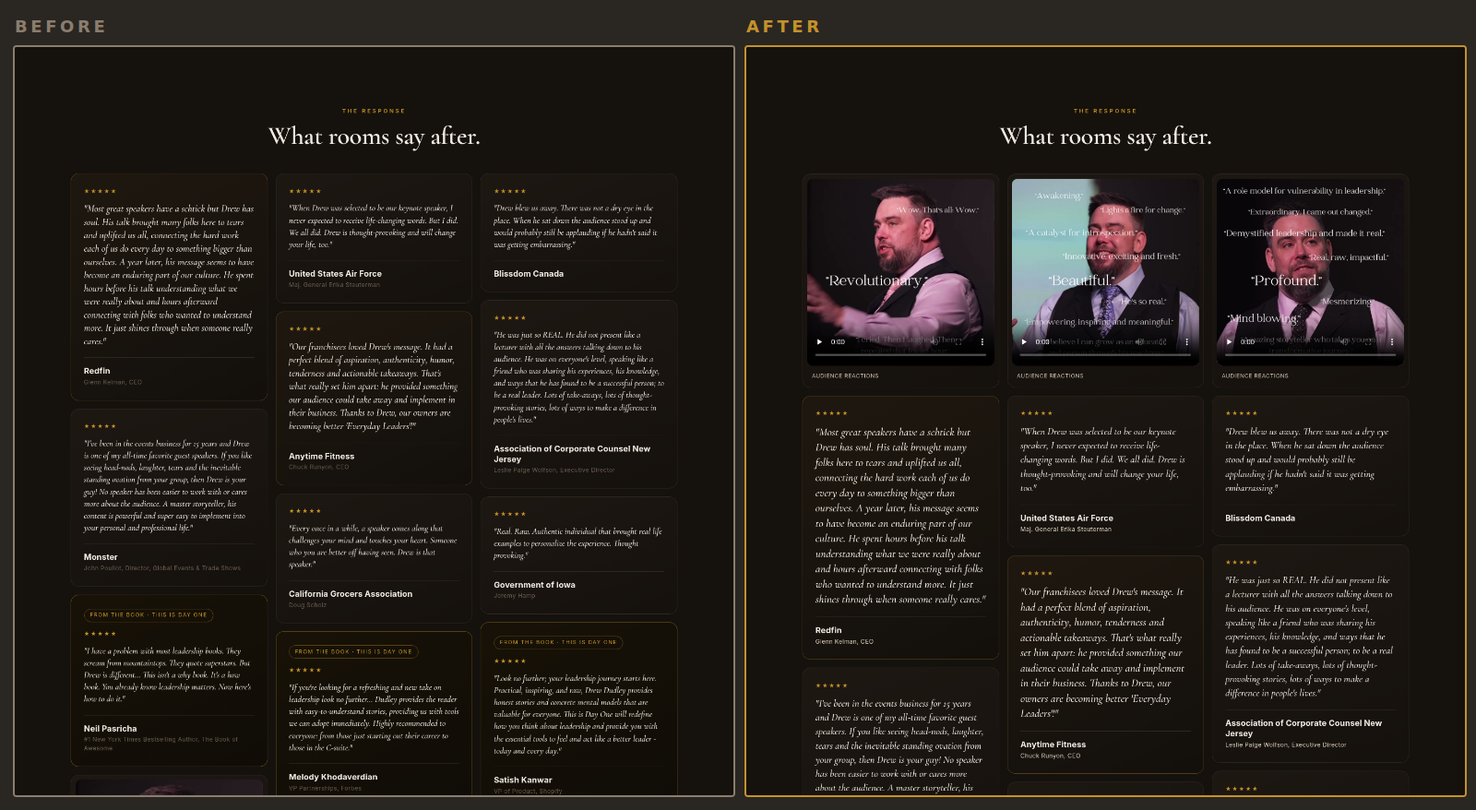
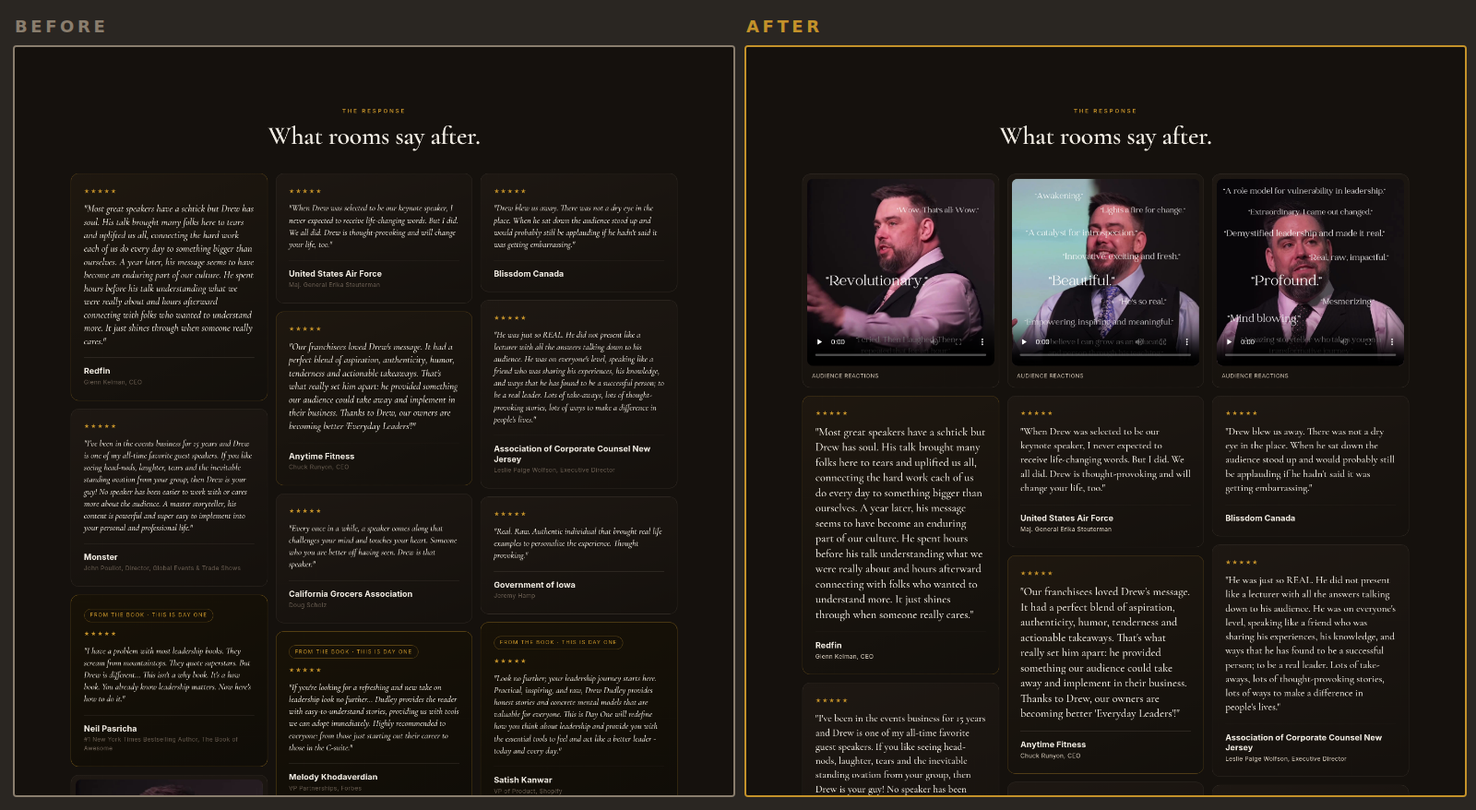
Set reviews upright; quote Drew's instructions on the before/after page
Reviews keep their larger size but drop the italics for readability.
The before/after page now shows Drew's original wording above each change,
followed by what was done and the screenshot.

Claude-Session: https://claude.ai/code/session_017RU65PiZpZooABtTuyqSdP

diff --git a/before-after/index.html b/before-after/index.html
@@ -56,7 +56,21 @@
   .pricing td:first-child{width:auto;}
   .pricing td{white-space:nowrap;}
 
-  figure{margin:2.2rem 0 0;}
+  .item{margin-top:3rem;padding-top:2.4rem;border-top:1px dashed var(--line);}
+  .item:first-of-type{border-top:none;padding-top:0;}
+  .ask{background:var(--ink2);border:1px solid var(--line);border-left:3px solid var(--gold);border-radius:6px;padding:1.1rem 1.3rem;}
+  .ask .who{display:block;font-size:.68rem;font-weight:600;letter-spacing:.2em;text-transform:uppercase;color:var(--gold);margin-bottom:.6rem;}
+  .ask p,.ask li{font-size:1.02rem;line-height:1.6;color:var(--text);}
+  .ask p + p{margin-top:.6rem;}
+  .ask ul{list-style:none;display:flex;flex-direction:column;gap:.55rem;}
+  .ask li{position:relative;padding-left:1.1rem;}
+  .ask li::before{content:"\2013";position:absolute;left:0;color:var(--gold);}
+  .ask .quoted{margin-top:.6rem;padding-left:1rem;border-left:1px solid var(--line);color:var(--muted);}
+  .did{margin-top:1rem;font-size:1rem;color:var(--muted);max-width:52rem;}
+  .did b{color:var(--text);}
+  .did .tag{display:inline-block;font-size:.66rem;font-weight:700;letter-spacing:.16em;text-transform:uppercase;color:#7fbf8f;margin-right:.5rem;}
+  .did .tag.wait{color:#e0a85a;}
+  figure{margin:1.4rem 0 0;}
   figure figcaption{font-size:.95rem;font-weight:600;color:var(--text);margin-bottom:.8rem;}
   figure figcaption span{font-weight:400;color:var(--muted);}
   figure a{display:block;border-radius:6px;overflow:hidden;border:1px solid var(--line);background:#2a2622;}
@@ -91,6 +105,7 @@
       <span><i style="border-color:#8a7e6e"></i> Before (grey frame)</span>
       <span><i style="border-color:#c4922a"></i> After (gold frame)</span>
       <span>Click any image to open it full size.</span>
+      <span>Drew's original words are quoted above each change.</span>
     </div>
     <nav class="toc">
       <a href="#fonts">Font &amp; colour</a>
@@ -103,36 +118,37 @@
   </div>
 </div>
 
-<!-- FONTS -->
+<!-- FONT &AMP; COLOUR TWEAKS -->
 <section class="part" id="fonts">
   <div class="wrap">
     <p class="label">Font &amp; colour tweaks</p>
     <h2>Easier to read, same dark design.</h2>
-    <p>All six readability requests are in. White and gold are unchanged.</p>
-    <div class="tbl"><table>
-      <thead><tr><th>Request</th><th>What changed</th></tr></thead>
-      <tbody>
-        <tr><td>Lighten the bronze</td><td>The bronze text ("Across 1,000+ keynotes", "As seen in", "rank Drew in the top 5") is now a lighter sand colour.</td></tr>
-        <tr><td>Lighten reviewer names</td><td>The names and titles under each review are now a light cream.</td></tr>
-        <tr><td>Enlarge 10M+ and "As seen in"</td><td>Both lines are about 30% larger.</td></tr>
-        <tr><td>Bold the scroll</td><td>The scrolling banner keeps its italics and is now bold.</td></tr>
-        <tr><td>Larger reviews</td><td>Review text is about 15% larger, still in italics.</td></tr>
-        <tr><td>"From the Book" label</td><td>Larger, bold and a lighter gold.</td></tr>
-      </tbody>
-    </table></div>
+    <p>Drew's words are shown first, then what changed. White and gold text are unchanged.</p>
 
-    <figure>
-      <figcaption>Hero <span>· lighter bronze, larger 10M+ and "As seen in" lines, TED added, new buttons</span></figcaption>
-      <a href="images/cmp-hero.png" target="_blank" rel="noopener"><img src="images/cmp-hero.png" alt="Hero, before and after" loading="lazy" /></a>
-    </figure>
-    <figure>
-      <figcaption>Scrolling banner <span>· now bold italic</span></figcaption>
-      <a href="images/cmp-marquee.png" target="_blank" rel="noopener"><img src="images/cmp-marquee.png" alt="Scrolling banner, before and after" loading="lazy" /></a>
-    </figure>
-    <figure>
-      <figcaption>Reviews <span>· larger text, lighter names, bolder "From the Book" label, videos as the top row</span></figcaption>
-      <a href="images/cmp-reviews.png" target="_blank" rel="noopener"><img src="images/cmp-reviews.png" alt="Reviews, before and after" loading="lazy" /></a>
-    </figure>
+    <div class="item">
+      <div class="ask"><span class="who">Drew's note</span><ul><li>&ldquo;Could the bronze be lightened please?&rdquo;</li><li>&ldquo;Could the following also be enlarged afterwards: 10M+ and &ldquo;As seen in&rdquo; lines&rdquo;</li></ul></div>
+      <p class="did"><span class="tag">Done</span>The bronze text (&ldquo;Across 1,000+ keynotes&rdquo;, &ldquo;As seen in&rdquo;, &ldquo;rank Drew in the top 5&rdquo;) is now a lighter sand colour. The 10M+ and &ldquo;As seen in&rdquo; lines are about 30% larger.</p>
+      <figure>
+        <figcaption>Hero <span>&middot; top of the homepage</span></figcaption>
+        <a href="images/cmp-hero.png" target="_blank" rel="noopener"><img src="images/cmp-hero.png" alt="Hero, before and after" loading="lazy" /></a>
+      </figure>
+    </div>
+    <div class="item">
+      <div class="ask"><span class="who">Drew's note</span><ul><li>&ldquo;I love the italics on the scroll, but would they be easier to read if they were in bold?&rdquo;</li></ul></div>
+      <p class="did"><span class="tag">Done</span>The scrolling banner keeps its italics and is now <b>bold</b>.</p>
+      <figure>
+        <figcaption>Scrolling banner</figcaption>
+        <a href="images/cmp-marquee.png" target="_blank" rel="noopener"><img src="images/cmp-marquee.png" alt="Scrolling banner, before and after" loading="lazy" /></a>
+      </figure>
+    </div>
+    <div class="item">
+      <div class="ask"><span class="who">Drew's note</span><ul><li>&ldquo;Could the names of reviewers be lightened please?&rdquo;</li><li>&ldquo;Could all the reviews be made a little larger? I like them italicized but want to improve readability.&rdquo;</li><li>&ldquo;&ldquo;From the Book&rdquo; needs to be enlarged, bolded, lightened (or some combo) to ensure readability&rdquo;</li></ul></div>
+      <p class="did"><span class="tag">Done</span>Reviewer names and titles are now a light cream. Review text is about 15% larger and <b>no longer italic</b>, for readability. The &ldquo;From the Book&rdquo; label is larger, bold and a lighter gold.</p>
+      <figure>
+        <figcaption>Reviews <span>&middot; the video row is covered under Graphics &amp; design</span></figcaption>
+        <a href="images/cmp-reviews.png" target="_blank" rel="noopener"><img src="images/cmp-reviews.png" alt="Reviews, before and after" loading="lazy" /></a>
+      </figure>
+    </div>
   </div>
 </section>
 
@@ -141,124 +157,155 @@
   <div class="wrap">
     <p class="label">Content</p>
     <h2>New copy, word for word.</h2>
-    <div class="tbl"><table>
-      <thead><tr><th>Request</th><th>Now reads</th></tr></thead>
-      <tbody>
-        <tr><td>Cut Roadmap to Impact</td><td>Replaced with Drew's new text and a <b>Set up a consultation</b> button that opens the booking wizard. The old section is saved and ready to put back.</td></tr>
-        <tr><td>TED, below the booking button</td><td>"Top 15 most inspiring <b>TED</b> talks of all time"</td></tr>
-        <tr><td>95% stat</td><td>95% "of clients rank Drew 'one of the 5 best speakers we've ever booked'"</td></tr>
-        <tr><td>Under Impact</td><td>750+ "Organizations trust Drew" (was 400+ Organizations)</td></tr>
-        <tr><td>Above the logos</td><td>"Trusted by 750+ companies globally"</td></tr>
-        <tr><td>Bio</td><td>"When Drew Dudley's students <b>at the University of Toronto</b> secretly nominated him…"</td></tr>
-        <tr><td>Under "Book Drew"</td><td>"Tell <b>us</b> about your event."</td></tr>
-      </tbody>
-    </table></div>
 
-    <figure>
-      <figcaption>The Content section <span>· Roadmap to Impact replaced with the new text and consultation link</span></figcaption>
-      <a href="images/cmp-content.png" target="_blank" rel="noopener"><img src="images/cmp-content.png" alt="Content section, before and after" loading="lazy" /></a>
-    </figure>
-    <figure>
-      <figcaption>Impact numbers <span>· 95% caption and 750+</span></figcaption>
-      <a href="images/cmp-impact.png" target="_blank" rel="noopener"><img src="images/cmp-impact.png" alt="Impact numbers, before and after" loading="lazy" /></a>
-    </figure>
-    <figure>
-      <figcaption>Logo wall <span>· 750+ companies globally</span></figcaption>
-      <a href="images/cmp-logos.png" target="_blank" rel="noopener"><img src="images/cmp-logos.png" alt="Logo wall heading, before and after" loading="lazy" /></a>
-    </figure>
-    <figure>
-      <figcaption>Bio <span>· "at the University of Toronto" added</span></figcaption>
-      <a href="images/cmp-bio.png" target="_blank" rel="noopener"><img src="images/cmp-bio.png" alt="Bio, before and after" loading="lazy" /></a>
-    </figure>
-    <figure>
-      <figcaption>Book Drew <span>· "Tell us about your event."</span></figcaption>
-      <a href="images/cmp-book.png" target="_blank" rel="noopener"><img src="images/cmp-book.png" alt="Book Drew section, before and after" loading="lazy" /></a>
-    </figure>
+    <div class="item">
+      <div class="ask"><span class="who">Drew's note</span><p>&ldquo;Let&rsquo;s cut the current whole content section about Roadmap to Impact. I&rsquo;m going to put it back cause I love what you did, but I don&rsquo;t want to advertise the old content, and clearly waiting until I confirm the new content is a bottleneck.</p><p>Let&rsquo;s replace with this:</p><p class="quoted">All Drew&rsquo;s keynotes are built on the foundational idea that leadership exists in powerful moments of interpersonal impact. Each presentation is customized to show your audience HOW to create those moments.<br><br>Feel free to set up a no-obligation consultation to explore what Drew can create for your audience. &lt;LINK TO BOOKING WIZARD&gt;&rdquo;</p></div>
+      <p class="did"><span class="tag">Done</span>The Roadmap to Impact section is replaced with this text, word for word. The link is a <b>Set up a consultation</b> button that opens the booking wizard. The old section is saved and ready to put back.</p>
+      <figure>
+        <figcaption>The Content section</figcaption>
+        <a href="images/cmp-content.png" target="_blank" rel="noopener"><img src="images/cmp-content.png" alt="Content section, before and after" loading="lazy" /></a>
+      </figure>
+    </div>
+    <div class="item">
+      <div class="ask"><span class="who">Drew's note</span><ul><li>&ldquo;95% of clients rank Drew &ldquo;one of the 5 best speakers we&rsquo;ve ever booked&rdquo;&rdquo;</li><li>&ldquo;Let&rsquo;s make it &ldquo;trusted by 750+ organizations&rdquo; under Impact &hellip;&rdquo;</li></ul></div>
+      <p class="did"><span class="tag">Done</span>The 95% caption now reads &ldquo;of clients rank Drew &lsquo;one of the 5 best speakers we&rsquo;ve ever booked&rsquo;&rdquo;. The Impact number is now <b>750+</b>, captioned &ldquo;Organizations trust Drew&rdquo; (see Open items).</p>
+      <figure>
+        <figcaption>Impact numbers</figcaption>
+        <a href="images/cmp-impact.png" target="_blank" rel="noopener"><img src="images/cmp-impact.png" alt="Impact numbers, before and after" loading="lazy" /></a>
+      </figure>
+    </div>
+    <div class="item">
+      <div class="ask"><span class="who">Drew's note</span><ul><li>&ldquo;&hellip; and &ldquo;750+ companies globally&rdquo; above the logos.&rdquo;</li></ul></div>
+      <p class="did"><span class="tag">Done</span>Now reads &ldquo;Trusted by <b>750+</b> companies globally&rdquo;.</p>
+      <figure>
+        <figcaption>Logo wall heading</figcaption>
+        <a href="images/cmp-logos.png" target="_blank" rel="noopener"><img src="images/cmp-logos.png" alt="Logo wall heading, before and after" loading="lazy" /></a>
+      </figure>
+    </div>
+    <div class="item">
+      <div class="ask"><span class="who">Drew's note</span><ul><li>&ldquo;Add, &ldquo;at the University of Toronto&rdquo; after &ldquo;Drew Dudley&rsquo;s students&rdquo; in the bio.&rdquo;</li></ul></div>
+      <p class="did"><span class="tag">Done</span>Now reads &ldquo;When Drew Dudley&rsquo;s students <b>at the University of Toronto</b> secretly nominated him&hellip;&rdquo;</p>
+      <figure>
+        <figcaption>Bio</figcaption>
+        <a href="images/cmp-bio.png" target="_blank" rel="noopener"><img src="images/cmp-bio.png" alt="Bio, before and after" loading="lazy" /></a>
+      </figure>
+    </div>
+    <div class="item">
+      <div class="ask"><span class="who">Drew's note</span><ul><li>&ldquo;Under &ldquo;Book Drew&rdquo; let&rsquo;s make it &ldquo;us&rdquo; rather than &ldquo;me&rdquo;&rdquo;</li></ul></div>
+      <p class="did"><span class="tag">Done</span>Now reads &ldquo;Tell <b>us</b> about your event.&rdquo;</p>
+      <figure>
+        <figcaption>Book Drew</figcaption>
+        <a href="images/cmp-book.png" target="_blank" rel="noopener"><img src="images/cmp-book.png" alt="Book Drew section, before and after" loading="lazy" /></a>
+      </figure>
+    </div>
+    <div class="item">
+      <div class="ask"><span class="who">Drew's note</span><ul><li>&ldquo;Put &ldquo;TED&rdquo; between &ldquo;inspiring&rdquo; and &ldquo;talks&rdquo; below booking button&rdquo;</li></ul></div>
+      <p class="did"><span class="tag">Done</span>Now reads &ldquo;Top 15 most inspiring <b>TED</b> talks of all time&rdquo;. You can see it in the hero screenshot under Font &amp; colour.</p>
+    </div>
   </div>
 </section>
 
-<!-- GRAPHICS -->
+<!-- GRAPHICS &AMP; DESIGN -->
 <section class="part" id="graphics">
   <div class="wrap">
     <p class="label">Graphics &amp; design</p>
     <h2>Videos up top, a door to The Gathering Place.</h2>
-    <ul class="notes">
-      <li><b>New Drew Dudley logo.</b> The typed name is now a logo spot in the top bar, the large hero name, the footer and the booking wizard header. The logo appears in all four places as soon as the file is added. Until then the typed name shows, so nothing looks broken.</li>
-      <li><b>Videos as the top row of reviews.</b> The three audience-reaction videos now sit together in one row above the written reviews (see the reviews comparison above). On phones they stack.</li>
-      <li><b>The Gathering Place.</b> Next to "Book Drew", the reel button now reads <b>See Drew Onstage</b>. Below it is a <b>Hear from The Gathering Place</b> button with the Gathering Place logo, linking to the Gathering Place page. It uses the hearthstone mark for now; the full logo goes in when the file is added.</li>
-    </ul>
-    <figure class="narrow">
-      <figcaption>Hero buttons on a phone</figcaption>
-      <a href="images/after-mobile-hero-actions.png" target="_blank" rel="noopener"><img src="images/after-mobile-hero-actions.png" alt="Hero buttons on a phone: Book Drew, See Drew Onstage, Hear from The Gathering Place" loading="lazy" /></a>
-    </figure>
+
+    <div class="item">
+      <div class="ask"><span class="who">Drew's note</span><ul><li>&ldquo;Could you replace the current text of my name with the new Drew Dudley logo?&rdquo;</li></ul></div>
+      <p class="did"><span class="tag wait">Waiting on logo file</span>The typed name is now a logo spot in the top bar, the large hero name, the footer and the booking wizard header. The logo appears in all four places as soon as the file is added. Until then the typed name shows, so nothing looks broken.</p>
+    </div>
+    <div class="item">
+      <div class="ask"><span class="who">Drew's note</span><ul><li>&ldquo;Instead of integrating the review videos into the text reviews, can we make the whole top row of reviews the videos?&rdquo;</li></ul></div>
+      <p class="did"><span class="tag">Done</span>The three audience-reaction videos now sit together as the top row, above the written reviews. You can see this in the reviews screenshot under Font &amp; colour. On phones they stack.</p>
+    </div>
+    <div class="item">
+      <div class="ask"><span class="who">Drew's note</span><ul><li>&ldquo;Can we add a prominent link to The Gathering Place (using the full logo) on the landing page? Bottom right? Or perhaps next to the button to watch my sizzle reel? &ldquo;See Drew onstage&rdquo; as one button and &ldquo;Hear from The Gathering Place&rdquo; as the other? I trust your instincts.&rdquo;</li></ul></div>
+      <p class="did"><span class="tag">Done</span>Next to &ldquo;Book Drew&rdquo;, the reel button now reads <b>See Drew Onstage</b>. Below it is a <b>Hear from The Gathering Place</b> button with the Gathering Place logo, linking to the Gathering Place page. It uses the hearthstone mark for now; the full logo goes in when the file is added.</p>
+      <figure class="narrow">
+        <figcaption>Hero buttons on a phone <span>&middot; desktop version is in the hero screenshot above</span></figcaption>
+        <a href="images/after-mobile-hero-actions.png" target="_blank" rel="noopener"><img src="images/after-mobile-hero-actions.png" alt="Hero buttons on a phone" loading="lazy" /></a>
+      </figure>
+    </div>
   </div>
 </section>
 
-<!-- WIZARD -->
+<!-- BOOKING WIZARD -->
 <section class="part" id="wizard">
   <div class="wrap">
     <p class="label">Booking wizard</p>
     <h2>Page by page.</h2>
-    <div class="tbl"><table>
-      <thead><tr><th>Page</th><th>Change</th></tr></thead>
-      <tbody>
-        <tr><td>1 · Basics</td><td>All text on the page is lighter. New <b>Role / Position</b> field after Organization.</td></tr>
-        <tr><td>2 · Event</td><td>New <b>Unsure</b> box under the date. Ticking it opens a box asking: "What's the general range of dates?"</td></tr>
-        <tr><td>Hybrid</td><td>Split into <b>Hybrid (Drew live)</b> and <b>Hybrid (Drew virtual)</b>. This question sits on page 2.</td></tr>
-        <tr><td>4 · "Yikes! Nope."</td><td>"Totally understandable. We encourage you to set up a conversation regardless, as factors other than fee could make your event a good fit."</td></tr>
-        <tr><td>Next page</td><td>"Don't write it off yet" / "Let's set up a connection anyway." Everything else kept, minus the last sentence about it costing nothing. "Call" now reads "conversation" everywhere, including the button.</td></tr>
-        <tr><td>5 · Estimate</td><td>"firm quote" now reads "more detailed estimate". The fee follows Drew's pricing (below).</td></tr>
-      </tbody>
-    </table></div>
 
-    <figure>
-      <figcaption>Page 1 <span>· lighter text, Role / Position added</span></figcaption>
-      <a href="images/cmp-wiz1.png" target="_blank" rel="noopener"><img src="images/cmp-wiz1.png" alt="Wizard page 1, before and after" loading="lazy" /></a>
-    </figure>
-    <figure>
-      <figcaption>Page 2 <span>· Unsure ticked with a date range; hybrid split in two</span></figcaption>
-      <a href="images/cmp-wiz2.png" target="_blank" rel="noopener"><img src="images/cmp-wiz2.png" alt="Wizard page 2, before and after" loading="lazy" /></a>
-    </figure>
-    <figure>
-      <figcaption>Page 4 <span>· new "Yikes! Nope." copy</span></figcaption>
-      <a href="images/cmp-wiz4.png" target="_blank" rel="noopener"><img src="images/cmp-wiz4.png" alt="Wizard page 4, before and after" loading="lazy" /></a>
-    </figure>
-    <figure>
-      <figcaption>The page after "Yikes! Nope."</figcaption>
-      <a href="images/cmp-wiz4b.png" target="_blank" rel="noopener"><img src="images/cmp-wiz4b.png" alt="Follow-up page, before and after" loading="lazy" /></a>
-    </figure>
-    <figure>
-      <figcaption>Page 5, the estimate <span>· keynote, in person, October</span></figcaption>
-      <a href="images/cmp-wiz5.png" target="_blank" rel="noopener"><img src="images/cmp-wiz5.png" alt="Estimate page, before and after" loading="lazy" /></a>
-    </figure>
+    <div class="item">
+      <div class="ask"><span class="who">Drew's note</span><p><b>Page 1</b></p><ul><li>&ldquo;Let&rsquo;s lighten all fonts to make it easier to read.&rdquo;</li><li>&ldquo;Add &ldquo;Role/Position&rdquo; after &ldquo;Organization Name&rdquo; on the basic info page&rdquo;</li></ul></div>
+      <p class="did"><span class="tag">Done</span>All text on page 1 is lighter. A new <b>Role / Position</b> field sits right after Organization.</p>
+      <figure>
+        <figcaption>Page 1</figcaption>
+        <a href="images/cmp-wiz1.png" target="_blank" rel="noopener"><img src="images/cmp-wiz1.png" alt="Wizard page 1, before and after" loading="lazy" /></a>
+      </figure>
+    </div>
+    <div class="item">
+      <div class="ask"><span class="who">Drew's note</span><p><b>Page 2</b></p><ul><li>&ldquo;Can we add an &ldquo;unsure&rdquo; box with a text box asking for a general range of dates?&rdquo;</li></ul><p><b>Page 3</b></p><ul><li>&ldquo;Could we split &ldquo;hybrid&rdquo; into Hybrid (Drew Live) and Hybrid (Drew Virtual)&rdquo;</li></ul></div>
+      <p class="did"><span class="tag">Done</span>A new <b>Unsure</b> box sits under the date. Ticking it opens a box asking &ldquo;What&rsquo;s the general range of dates?&rdquo; Hybrid is now two choices: <b>Hybrid (Drew live)</b> and <b>Hybrid (Drew virtual)</b>. That question is on page 2 of the wizard, so both changes appear in this screenshot.</p>
+      <figure>
+        <figcaption>Page 2 <span>&middot; after: Unsure ticked</span></figcaption>
+        <a href="images/cmp-wiz2.png" target="_blank" rel="noopener"><img src="images/cmp-wiz2.png" alt="Wizard page 2, before and after" loading="lazy" /></a>
+      </figure>
+    </div>
+    <div class="item">
+      <div class="ask"><span class="who">Drew's note</span><p><b>Page 4</b></p><ul><li>&ldquo;Under &ldquo;Yikes! Nope.&rdquo; Let&rsquo;s make it: Totally understandable. We encourage you to set up a conversation regardless, as factors other than fee could make your event a good fit.&rdquo;</li></ul></div>
+      <p class="did"><span class="tag">Done</span>Done, word for word.</p>
+      <figure>
+        <figcaption>Page 4</figcaption>
+        <a href="images/cmp-wiz4.png" target="_blank" rel="noopener"><img src="images/cmp-wiz4.png" alt="Wizard page 4, before and after" loading="lazy" /></a>
+      </figure>
+    </div>
+    <div class="item">
+      <div class="ask"><span class="who">Drew's note</span><ul><li>&ldquo;Make the message on the next page: Don&rsquo;t write it off yet / Let&rsquo;s set up a connection anyway. [Leave everything else, but remove the last sentence about it costing nothing, and change call to &ldquo;conversation&rdquo; anywhere it appears.]&rdquo;</li></ul></div>
+      <p class="did"><span class="tag">Done</span>The page now reads &ldquo;Don&rsquo;t write it off yet&rdquo; / &ldquo;Let&rsquo;s set up a connection anyway.&rdquo; The rest of the message is kept, minus the last sentence. &ldquo;Call&rdquo; now reads &ldquo;conversation&rdquo; everywhere, including the <b>Set up a conversation</b> button.</p>
+      <figure>
+        <figcaption>The page after &ldquo;Yikes! Nope.&rdquo;</figcaption>
+        <a href="images/cmp-wiz4b.png" target="_blank" rel="noopener"><img src="images/cmp-wiz4b.png" alt="Follow-up page, before and after" loading="lazy" /></a>
+      </figure>
+    </div>
+    <div class="item">
+      <div class="ask"><span class="who">Drew's note</span><p><b>Page 5</b></p><ul><li>&ldquo;Let&rsquo;s make &ldquo;firm quote&rdquo; &ldquo;more detailed estimate&rdquo;&rdquo;</li></ul></div>
+      <p class="did"><span class="tag">Done</span>Now reads &ldquo;&hellip;Drew will confirm the date and a <b>more detailed estimate</b>&rdquo;. The fee itself follows Drew&rsquo;s pricing notes (next section).</p>
+      <figure>
+        <figcaption>Page 5, the estimate <span>&middot; keynote, in person, October</span></figcaption>
+        <a href="images/cmp-wiz5.png" target="_blank" rel="noopener"><img src="images/cmp-wiz5.png" alt="Estimate page, before and after" loading="lazy" /></a>
+      </figure>
+    </div>
   </div>
 </section>
 
-<!-- PRICING -->
+<!-- ESTIMATE PRICING -->
 <section class="part" id="pricing">
   <div class="wrap">
     <p class="label">Estimate pricing</p>
-    <h2>Drew's fees, by season and format.</h2>
-    <p>The estimate now shows the exact fee from Drew's notes. Peak season is February–June and September–November. Off-peak is December–January and July–August.</p>
-    <div class="tbl"><table class="pricing">
-      <thead><tr><th>Format</th><th>Peak</th><th>Off-peak</th><th>Peak, virtual</th><th>Off-peak, virtual</th></tr></thead>
-      <tbody>
-        <tr><td>Keynote only</td><td>$15,000</td><td>$12,500</td><td>$12,000</td><td>$10,000</td></tr>
-        <tr><td>Keynote + small interactive</td><td>$17,500</td><td>$14,500</td><td>$14,000</td><td>$11,600</td></tr>
-        <tr><td>Keynote + large interactive</td><td>$20,000</td><td>$15,000</td><td>$16,000</td><td>$12,000</td></tr>
-        <tr><td>Fee flexibility shown</td><td>Moderate</td><td>High</td><td>Moderate</td><td>High</td></tr>
-      </tbody>
-    </table></div>
-    <p>"Virtual" means a virtual event or Hybrid (Drew virtual): 20% off. Hybrid (Drew live) and in-person events have no change. If the date is marked <b>Unsure</b>, the estimate shows the off-peak-to-peak range for that format.</p>
+    <h2>Drew&rsquo;s fees, by season and format.</h2>
 
-    <figure class="narrow">
-      <figcaption>Example <span>· large interactive, Hybrid (Drew virtual), January</span></figcaption>
-      <a href="images/after-wiz-5-estimate-offpeak-virtual.png" target="_blank" rel="noopener"><img src="images/after-wiz-5-estimate-offpeak-virtual.png" alt="Estimate: $12,000, off-peak, High flexibility" loading="lazy" /></a>
-    </figure>
-    <figure class="narrow">
-      <figcaption>Example <span>· small interactive, Hybrid (Drew live), date unsure</span></figcaption>
-      <a href="images/after-wiz-5-estimate-unsure.png" target="_blank" rel="noopener"><img src="images/after-wiz-5-estimate-unsure.png" alt="Estimate: $14,500 to $17,500, depends on season" loading="lazy" /></a>
-    </figure>
+    <div class="item">
+      <div class="ask"><span class="who">Drew's note</span><p>&ldquo;Some notes for calculating the estimates:</p><p class="quoted">Peak Season: February-June and September-November<br>Off-Peak Season: December-January and July-August<br><br>Keynote only cost: Peak 15K &middot; Off-Peak 12.5k<br>Keynote plus small interactive: Peak - 17.5k &middot; Off-Peak - 14.5k<br>Keynote plus large interactive: Peak: 20k &middot; Off-Peak: 15k<br><br>Virtual OR Hybrid (Drew Virtual): Reduce total cost 20%<br>Virtual but Drew live, no change in cost.<br><br>Always list Potential Fee Flexibility as &ldquo;Moderate&rdquo; in high-season and &ldquo;High&rdquo; in low season.&rdquo;</p></div>
+      <p class="did"><span class="tag">Done</span>The estimate now shows the exact fee from these notes. Full table below. If the date is marked <b>Unsure</b>, the season isn&rsquo;t known, so the estimate shows the off-peak-to-peak range for that format.</p>
+      <div class="tbl"><table class="pricing">
+        <thead><tr><th>Format</th><th>Peak</th><th>Off-peak</th><th>Peak, virtual</th><th>Off-peak, virtual</th></tr></thead>
+        <tbody>
+          <tr><td>Keynote only</td><td>$15,000</td><td>$12,500</td><td>$12,000</td><td>$10,000</td></tr>
+          <tr><td>Keynote + small interactive</td><td>$17,500</td><td>$14,500</td><td>$14,000</td><td>$11,600</td></tr>
+          <tr><td>Keynote + large interactive</td><td>$20,000</td><td>$15,000</td><td>$16,000</td><td>$12,000</td></tr>
+          <tr><td>Fee flexibility shown</td><td>Moderate</td><td>High</td><td>Moderate</td><td>High</td></tr>
+        </tbody>
+      </table></div>
+      <figure class="narrow">
+        <figcaption>Example <span>&middot; large interactive, Hybrid (Drew virtual), January</span></figcaption>
+        <a href="images/after-wiz-5-estimate-offpeak-virtual.png" target="_blank" rel="noopener"><img src="images/after-wiz-5-estimate-offpeak-virtual.png" alt="Estimate: $12,000, off-peak, High flexibility" loading="lazy" /></a>
+      </figure>
+      <figure class="narrow">
+        <figcaption>Example <span>&middot; small interactive, Hybrid (Drew live), date unsure</span></figcaption>
+        <a href="images/after-wiz-5-estimate-unsure.png" target="_blank" rel="noopener"><img src="images/after-wiz-5-estimate-unsure.png" alt="Estimate: $14,500 to $17,500, depends on season" loading="lazy" /></a>
+      </figure>
+    </div>
   </div>
 </section>
 

diff --git a/v2b/index.html b/v2b/index.html
@@ -331,7 +331,7 @@
   .ttile:hover{transform:translateY(-4px);border-color:var(--gold);}
   .ttile.feature{background:linear-gradient(155deg,#1f1810,#13100c);border-color:rgba(196,146,42,.3);}
   .ttile .stars{color:var(--gold);letter-spacing:.18em;font-size:.78rem;margin-bottom:.8rem;}
-  .ttile p{font-family:var(--serif);font-style:italic;font-size:1.26rem;line-height:1.4;color:var(--text);}
+  .ttile p{font-family:var(--serif);font-style:normal;font-size:1.26rem;line-height:1.4;color:var(--text);}
   .ttile.feature p{font-size:1.4rem;line-height:1.36;}
   .ttile .by{margin-top:1.2rem;padding-top:1rem;border-top:1px solid var(--line);}
   .ttile .by .org{display:block;font-size:1.02rem;font-weight:700;letter-spacing:.01em;color:var(--text);line-height:1.25;}
